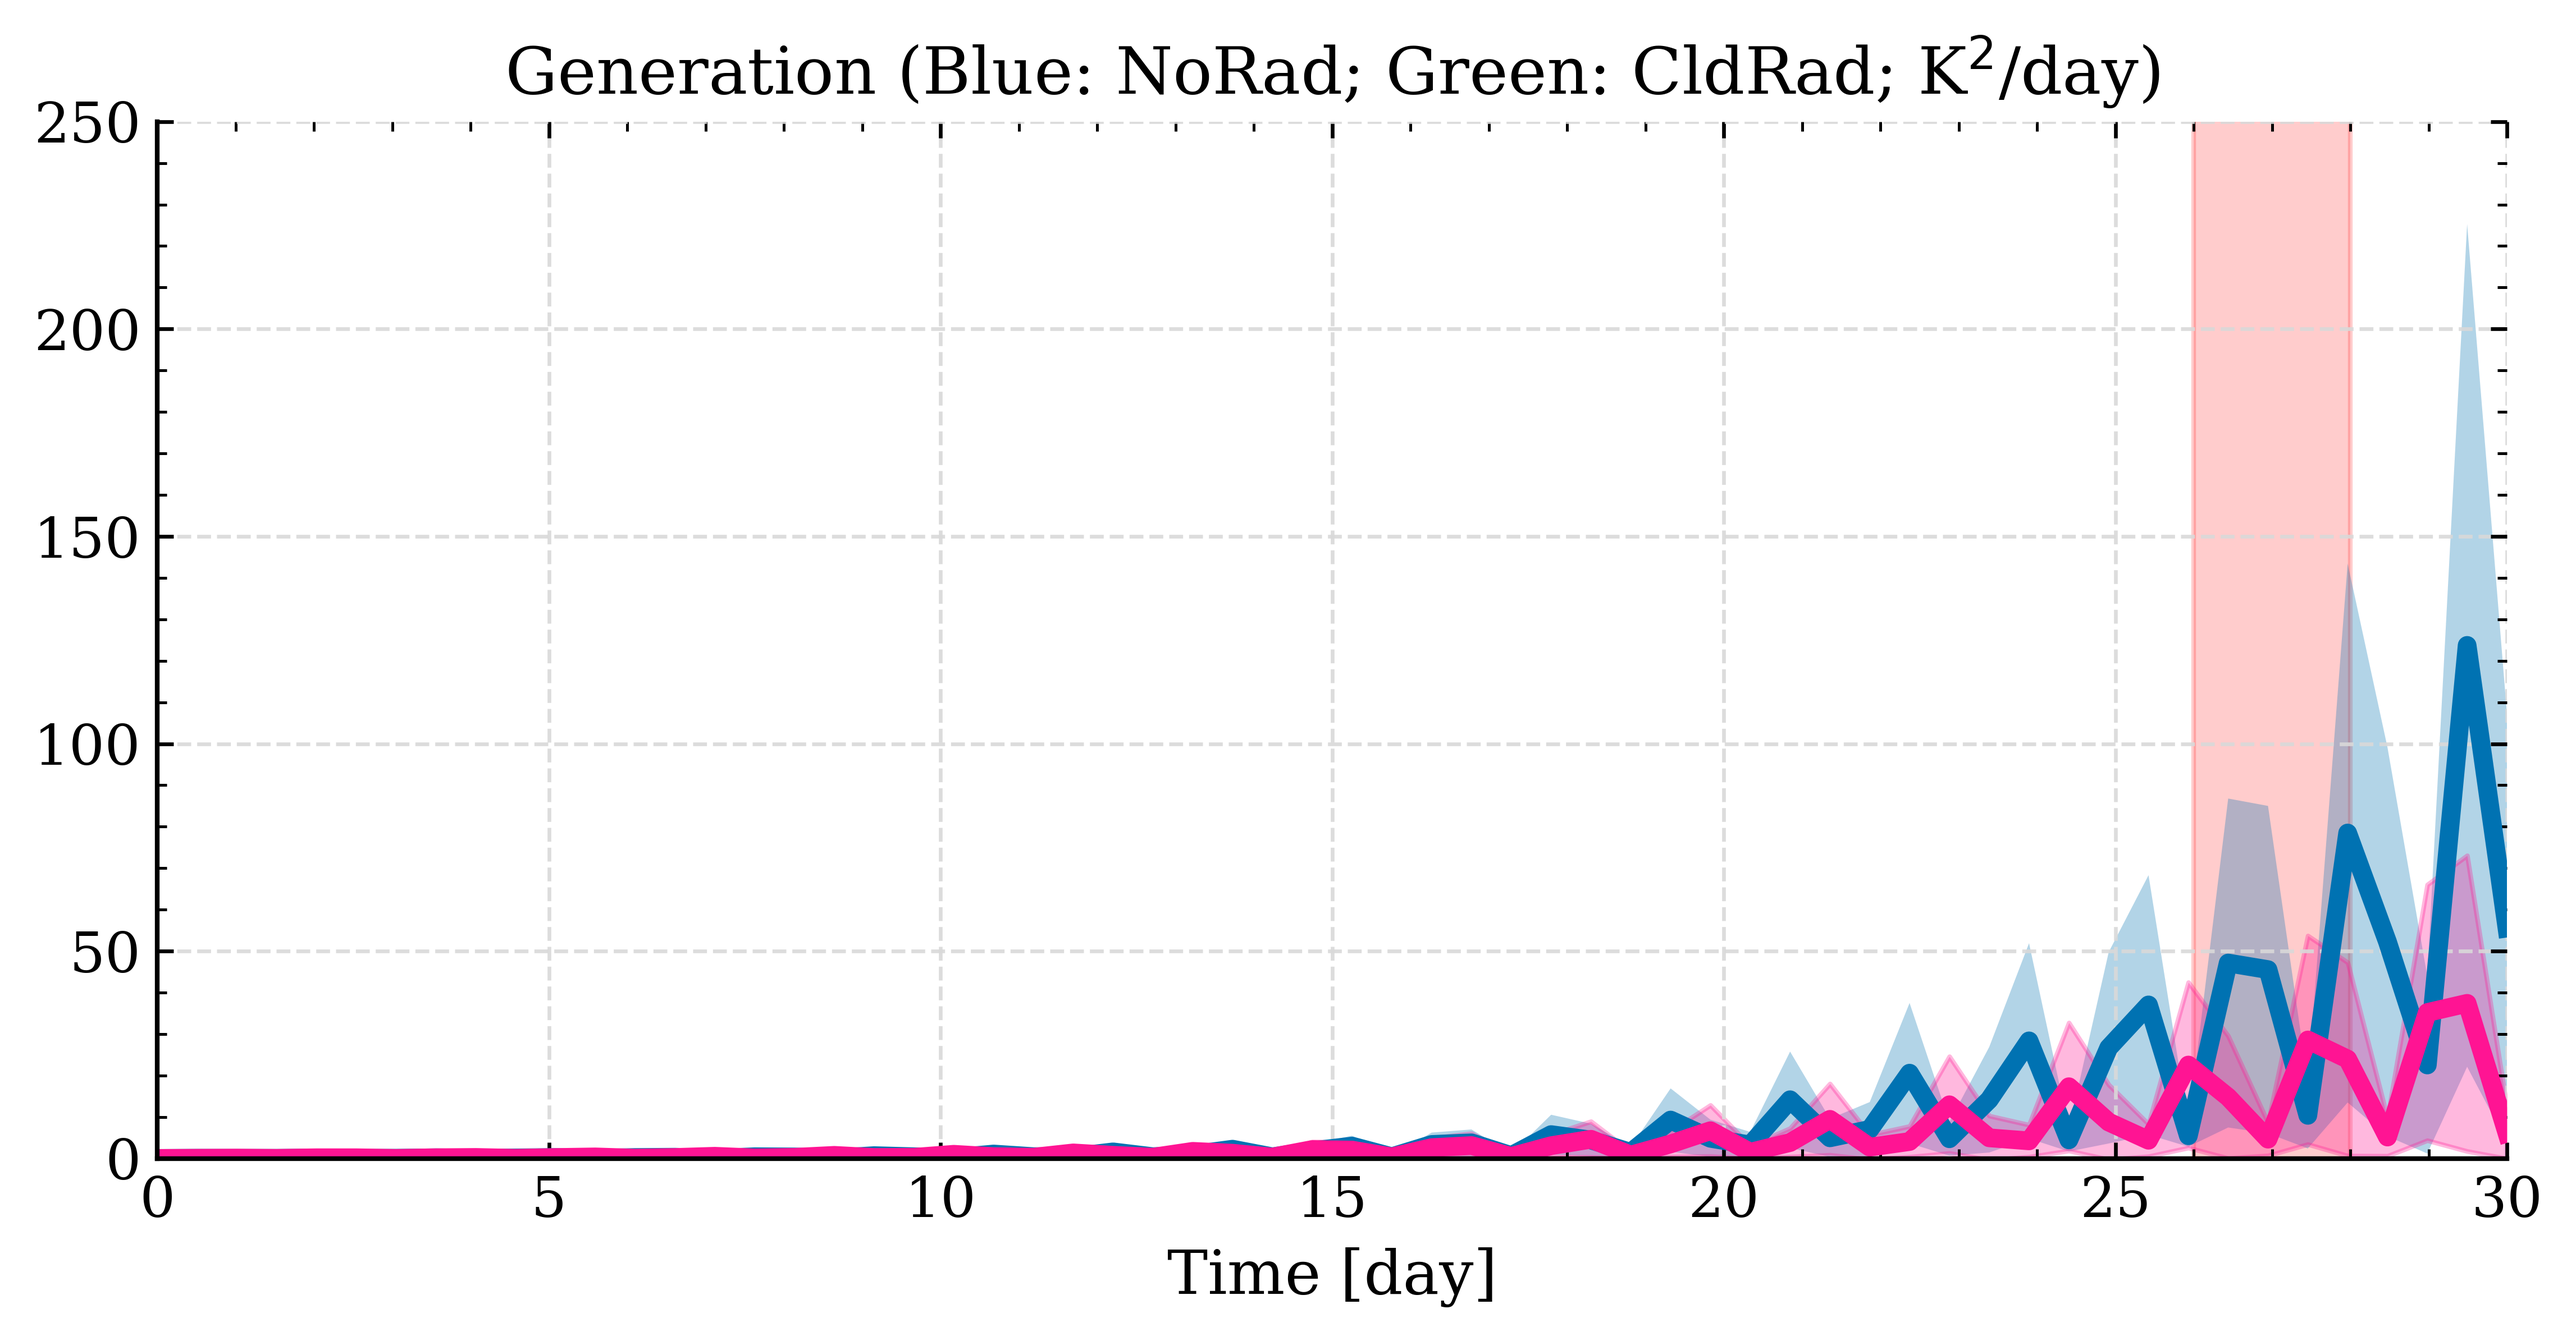
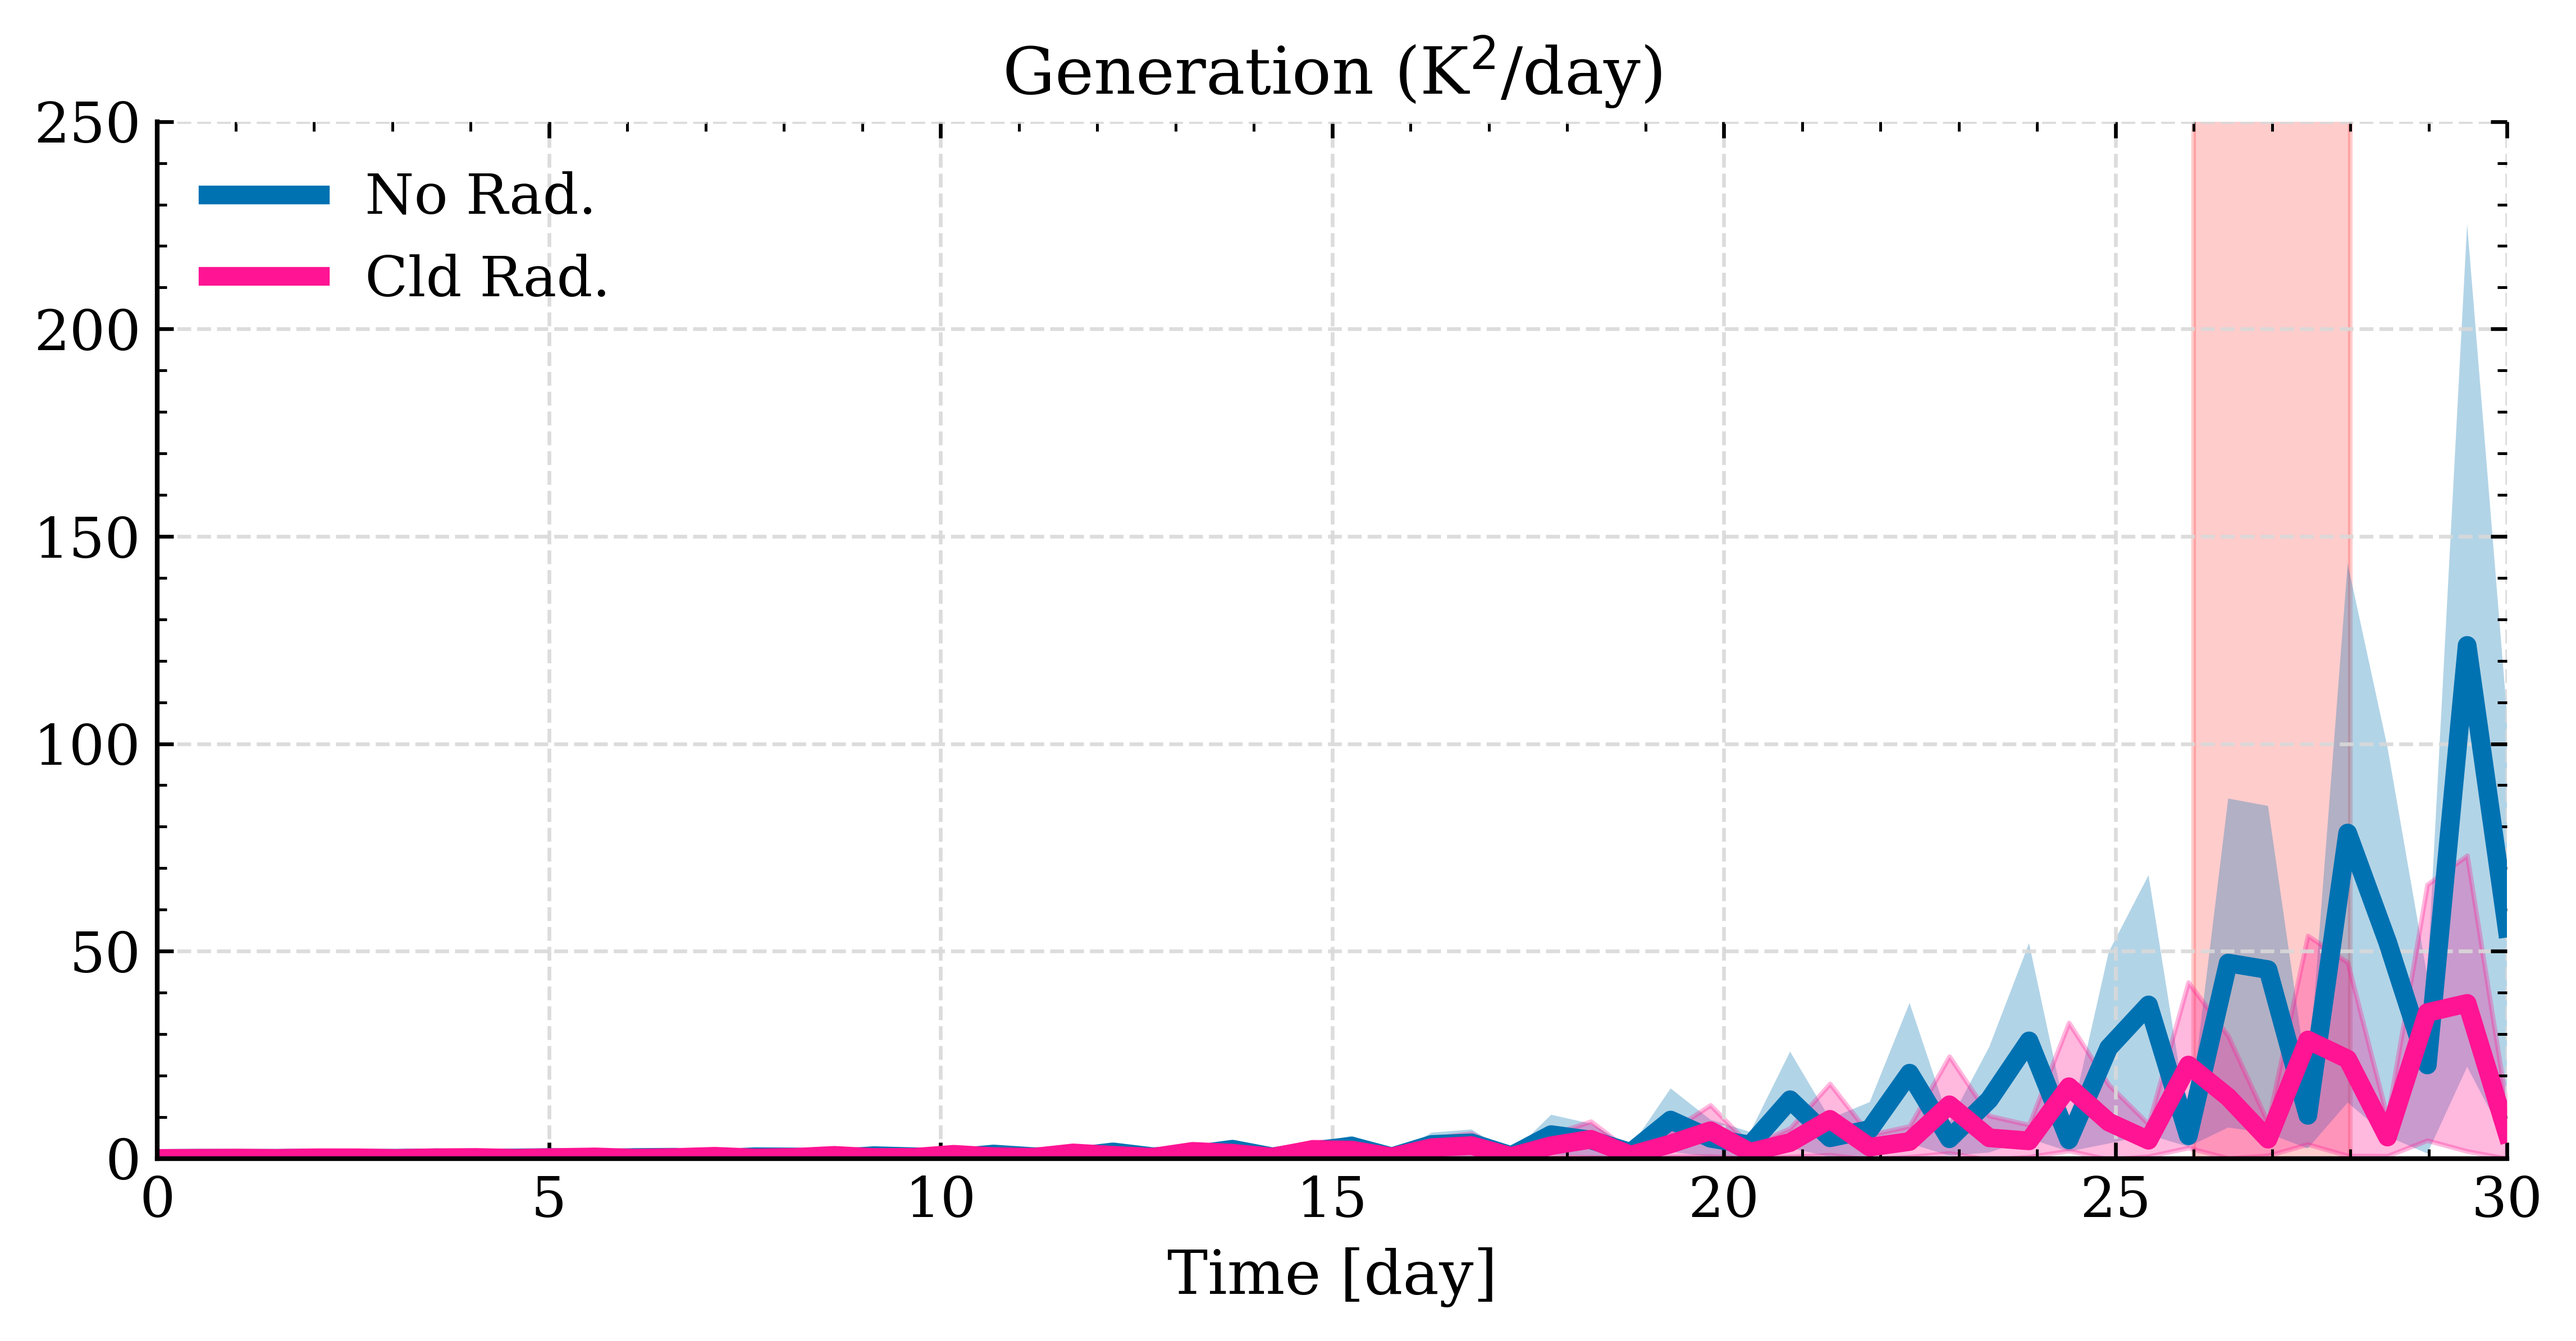
UPDATE: 20260420 Modify generation legend; add evolution of heating

Changed region(s): [[0.187, 0.031, 0.8415, 0.0929], [0.0623, 0.1858, 0.2493, 0.2167], [0.0623, 0.1238, 0.2182, 0.1548]]

diff --git a/Comparison/NoRad_vs_CldRad/Leq_comparison.py b/Comparison/NoRad_vs_CldRad/Leq_comparison.py
@@ -1,0 +1,141 @@
+# ====================================================
+# This program is to calculate time evolution of 
+# Leq and L evolution
+# ====================================================
+
+# ====================================================
+# Import package
+# ====================================================
+import h5py
+import numpy as np
+import tomllib as tl
+
+from typing import cast
+from pathlib import Path
+
+from matplotlib import pyplot as plt
+from matplotlib.colors import TwoSlopeNorm
+
+# using style sheet
+style_path = Path("/home/b11209013/Kuang2008_v0.3.0_Analysis/style_sheet/SingleLine.mplstyle")
+plt.style.use(["seaborn-v0_8-colorblind", str(style_path)])
+
+# ====================================================
+# Load data
+# ====================================================
+
+# Setup path for field data
+HomePath: Path = Path("/home/b11209013/Kuang2008_v0.3.0/Config")
+NoPath: Path = Path("/work/b11209013/Kuang2008_v0.3.0/full/Rad(0.0,0.0,0.0)/2026-04-16_RUN05")
+CldPath: Path = Path("/work/b11209013/Kuang2008_v0.3.0/full/Rad(0.0,0.0,0.1)/2026-04-16_RUN05")
+FigPath : Path = Path("/home/b11209013/Kuang2008_v0.3.0_Analysis/Figure/NoRad_vs_CldRad")
+
+# Load growth rate data for identifying most-unstable mode
+## Load configuration parameters
+with open(HomePath / "ModelParams.toml", "rb") as file:
+    parameter = tl.load(file)
+
+cqe_param = parameter["Convection"]["CQE"]
+heating_params = parameter["Convection"]["Heating"]
+
+print(parameter)
+### Calculate parameters
+A = 1 - 2*cqe_param["f"] + (cqe_param["b2"] - cqe_param["b1"])/cqe_param["F"]
+B = 1 + (cqe_param["b2"] + cqe_param["b1"])/cqe_param["F"] - A * heating_params["r0"]
+
+## Load growth rate
+with h5py.File(NoPath / "EigenAnalysis.h5", "r") as file:
+    No_GR: np.ndarray = cast(h5py.Dataset, file["GrowthRates"])[:, 0]
+    No_PS: np.ndarray = cast(h5py.Dataset, file["PhaseSpeeds"])[:, 0]
+    k          : np.ndarray = cast(h5py.Dataset, file["k"])[...]
+
+with h5py.File(CldPath / "EigenAnalysis.h5", "r") as file:
+    Cld_GR: np.ndarray = cast(h5py.Dataset, file["GrowthRates"])[:, 0]
+    Cld_PS: np.ndarray = cast(h5py.Dataset, file["PhaseSpeeds"])[:, 0]
+
+## identifying most unstable mode
+Noidx       : int = np.argmax(No_GR).astype(int)
+Cldidx      : int = np.argmax(Cld_GR).astype(int)
+Nok         : float = k[Noidx]
+Cldk        : float = k[Cldidx]
+
+# Load Galerkin data
+with h5py.File(NoPath / "State.h5", "r") as file:
+    NoState: dict[str, np.ndarray] = {
+        key: np.abs(cast(h5py.Dataset, file[key])[Noidx, ...])
+        for key in file.keys()
+        if key.startswith(("T", "w", "q", "L"))
+    }
+
+with h5py.File(CldPath / "State.h5", "r") as file:
+    CldState: dict[str, np.ndarray] = {
+        key: np.abs(cast(h5py.Dataset, file[key])[Cldidx, ...])
+        for key in file.keys()
+        if key.startswith(("T", "w", "q", "L"))
+    }
+
+# ====================================================
+# Preprocessing 
+# ====================================================
+
+# Calculate Leq in the two simulations
+NoLeq: np.ndarray = (A*heating_params["rq"]*(NoState["q"]-1.5*NoState["T1"]) + cqe_param["f"]*NoState["w1"] + (1-cqe_param["f"])*NoState["w2"])/B
+CldLeq: np.ndarray = (A*heating_params["rq"]*(CldState["q"]-1.5*CldState["T1"]) + cqe_param["f"]*CldState["w1"] + (1-cqe_param["f"])*CldState["w2"])/B
+
+# Maximum at different time stamp
+
+# Calculate mean and standard deviation
+NoLeq_max_mean: np.ndarray = NoLeq.mean(axis=-1)
+NoLeq_max_std : np.ndarray = NoLeq.std(axis=-1)
+
+CldLeq_max_mean: np.ndarray = CldLeq.mean(axis=-1)
+CldLeq_max_std : np.ndarray = CldLeq.std(axis=-1)
+
+NoL_max_mean: np.ndarray = NoState["L"].mean(axis=-1)
+NoL_max_std : np.ndarray = NoState["L"].std(axis=-1)
+
+CldL_max_mean: np.ndarray = CldState["L"].mean(axis=-1)
+CldL_max_std : np.ndarray = CldState["L"].std(axis=-1)
+
+
+# ====================================================
+# Visualization
+# ====================================================
+Time: np.ndarray = np.linspace(0, NoL_max_mean.size//2, NoL_max_mean.size)
+
+# Temperature
+fig, ax = plt.subplots(1, 1, figsize=(9, 4))
+ax.plot(Time, NoL_max_mean, label="No Rad.", linewidth=4)
+ax.plot(Time, CldL_max_mean, label="Cld Rad.", color="deeppink", linewidth=4)
+ax.fill_between(Time, NoL_max_mean-NoL_max_std, NoL_max_mean+NoL_max_std, alpha=0.3)
+ax.fill_between(Time, CldL_max_mean-CldL_max_std, CldL_max_mean+CldL_max_std, alpha=0.3, color="deeppink")
+# ax.fill_betweenx([0, 2000], 26, 28, color="red", alpha=0.2, zorder=0)
+ax.spines["right"].set_visible(False)
+ax.spines["top"].set_visible(False)
+ax.minorticks_on()
+ax.set_xlim(0, 30)
+# ax.set_ylim(0, 10)
+ax.set_xlabel("Time [day]")
+ax.set_title("Moisture anomaly [K]")
+ax.legend(frameon=False, loc="best")
+
+plt.savefig("/home/b11209013/Kuang2008_v0.3.0_Analysis/Figure/NoRad_vs_CldRad/L_evo.png", dpi=600, bbox_inches="tight")
+plt.close(fig)
+
+fig, ax = plt.subplots(1, 1, figsize=(9, 4))
+ax.plot(Time, NoLeq_max_mean, label="No Rad.", linewidth=4)
+ax.plot(Time, CldLeq_max_mean, label="Cld Rad.", color="deeppink", linewidth=4)
+ax.fill_between(Time, NoLeq_max_mean-NoLeq_max_std, NoLeq_max_mean+NoLeq_max_std, alpha=0.3)
+ax.fill_between(Time, CldLeq_max_mean-CldLeq_max_std, CldLeq_max_mean+CldLeq_max_std, alpha=0.3, color="deeppink")
+# ax.fill_betweenx([0, 2000], 26, 28, color="red", alpha=0.2, zorder=0)
+ax.spines["right"].set_visible(False)
+ax.spines["top"].set_visible(False)
+ax.minorticks_on()
+ax.set_xlim(0, 30)
+# ax.set_ylim(0, 10)
+ax.set_xlabel("Time [day]")
+ax.set_title("Moisture anomaly [K]")
+ax.legend(frameon=False, loc="best")
+
+plt.savefig("/home/b11209013/Kuang2008_v0.3.0_Analysis/Figure/NoRad_vs_CldRad/Leq_evo.png", dpi=600, bbox_inches="tight")
+plt.close(fig)

diff --git a/Comparison/NoRad_vs_CldRad/EAPE_Evo.py b/Comparison/NoRad_vs_CldRad/EAPE_Evo.py
@@ -120,8 +120,8 @@ ax.minorticks_on()
 ax.set_xlim(0, 30)
 ax.set_ylim(0, 250)
 ax.set_xlabel("Time [day]")
-ax.set_title(r"Generation (Blue: NoRad; Green: CldRad; K$^2$/day)")
-# ax.legend(frameon=False, loc="best")
+ax.set_title(r"Generation (K$^2$/day)")
+ax.legend(frameon=False, loc="best")
 
 plt.savefig("/home/b11209013/Kuang2008_v0.3.0_Analysis/Figure/NoRad_vs_CldRad/Gen_evo.png", dpi=600, bbox_inches="tight")
 plt.close(fig)
